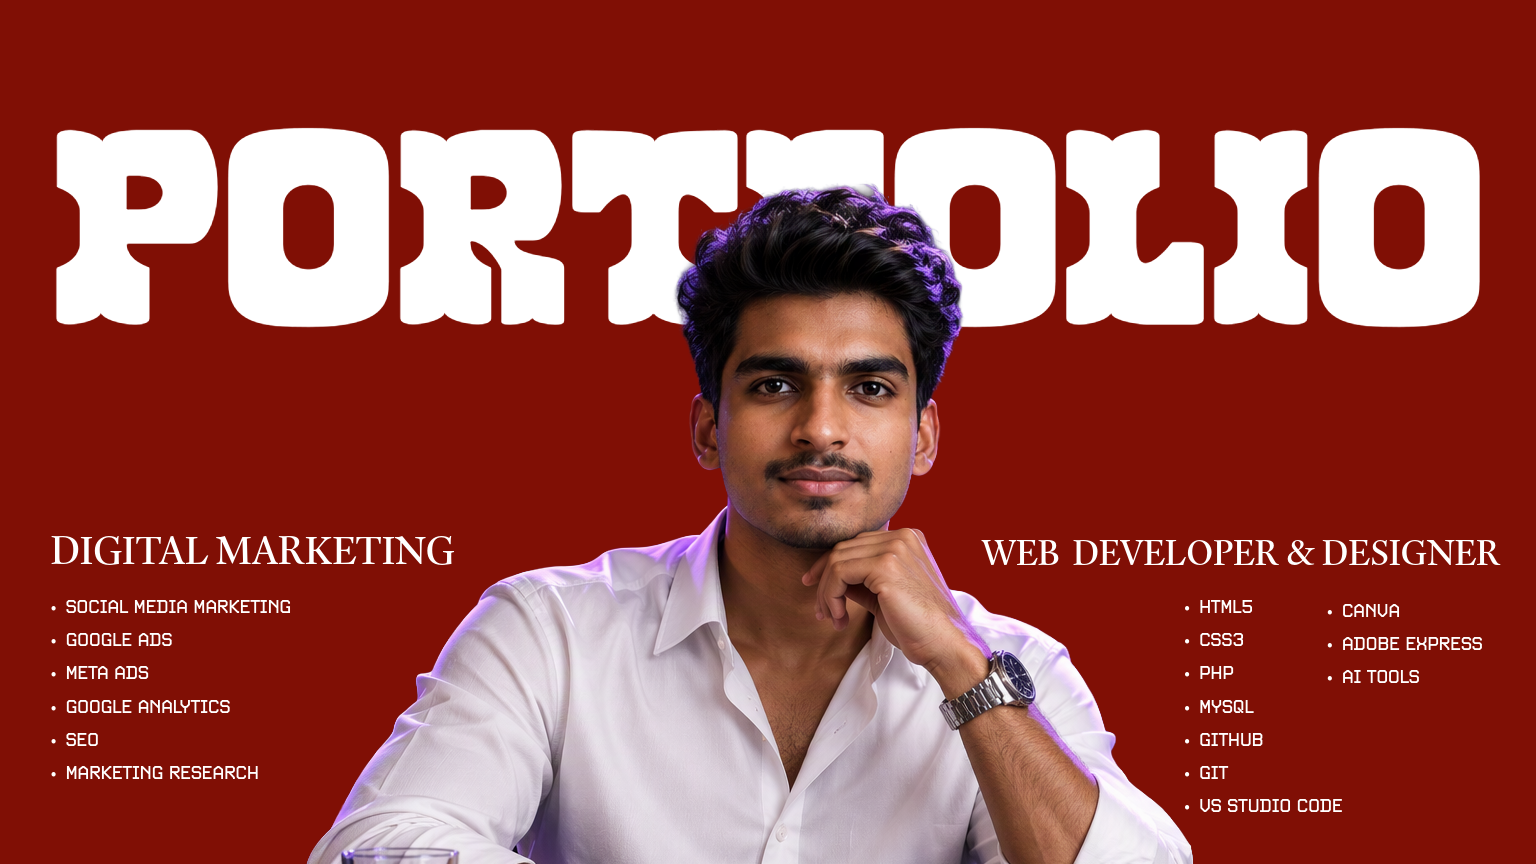
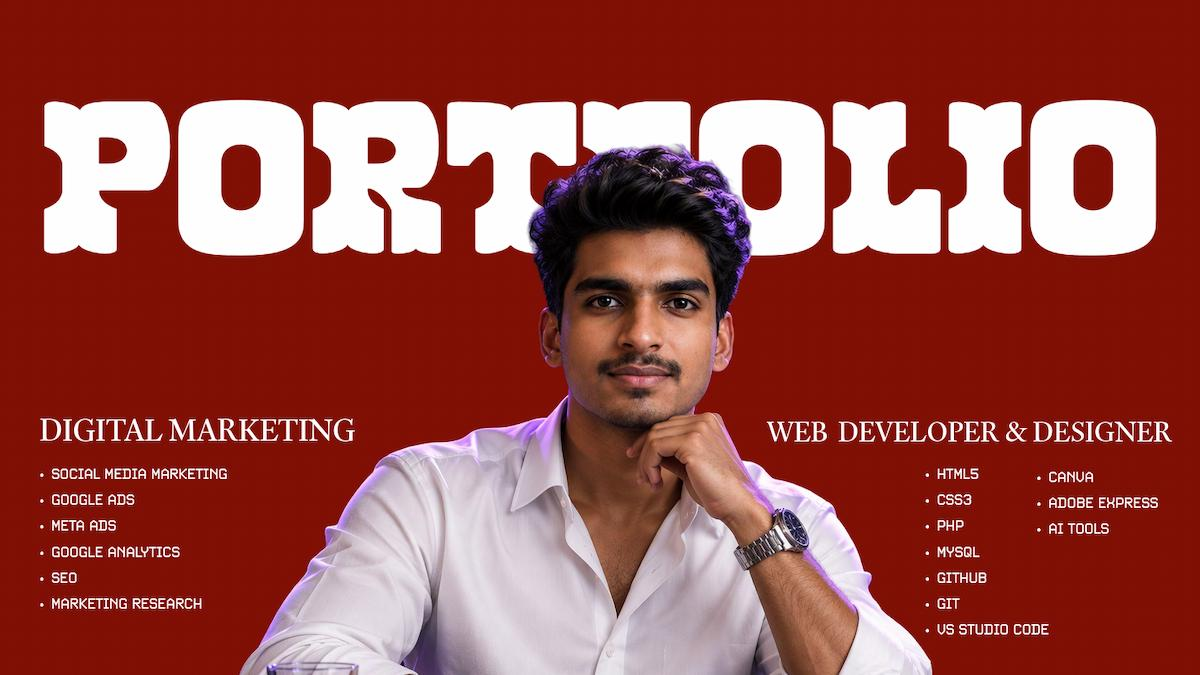
initial chanes

diff --git a/index.html b/index.html
@@ -26,7 +26,7 @@
 
     <!-- ================= FAVICON ================= -->
 
-    <link rel="icon" type="image/png" href="favicon.png">
+    <link rel="icon" type="image/png" href="images/favicon.png">
 
     <link rel="apple-touch-icon" href="images/apple-touch-icon.png">
 
@@ -58,7 +58,7 @@
         content="Roshan Daware">
 
     <meta property="og:image"
-        content="https://roshandaware.netlify.app/images/portfolio.jpg">
+        content="https://roshandaware.netlify.app/images/portfolio.png">
 
     <meta property="og:image:alt"
         content="Roshan Daware Portfolio">
@@ -75,7 +75,7 @@
         content="Explore Roshan Daware's portfolio featuring SEO, social media marketing, Google Ads and web development projects.">
 
     <meta name="twitter:image"
-        content="https://roshandaware.netlify.app/images/portfolio.jpg">
+        content="https://roshandaware.netlify.app/images/portfolio.png">
 
     <!-- ================= STRUCTURED DATA ================= -->
 

diff --git a/terms-and-conditions.html b/terms-and-conditions.html
@@ -20,7 +20,7 @@
 
     <link rel="canonical" href="https://roshandaware.netlify.app/terms-and-conditions.html">
 
-    <link rel="icon" type="image/svg+xml" href="logo.svg">
+    <link rel="icon" type="image/png" href="images/favicon.png">
 
     <link rel="preconnect" href="https://fonts.googleapis.com">
 

diff --git a/privacy-policy.html b/privacy-policy.html
@@ -20,7 +20,7 @@
 
     <link rel="canonical" href="https://roshandaware.netlify.app/privacy-policy.html">
 
-    <link rel="icon" type="image/png" href="favicon.png">
+    <link rel="icon" type="image/png" href="images/favicon.png">
 
     <link rel="preconnect" href="https://fonts.googleapis.com">
 
